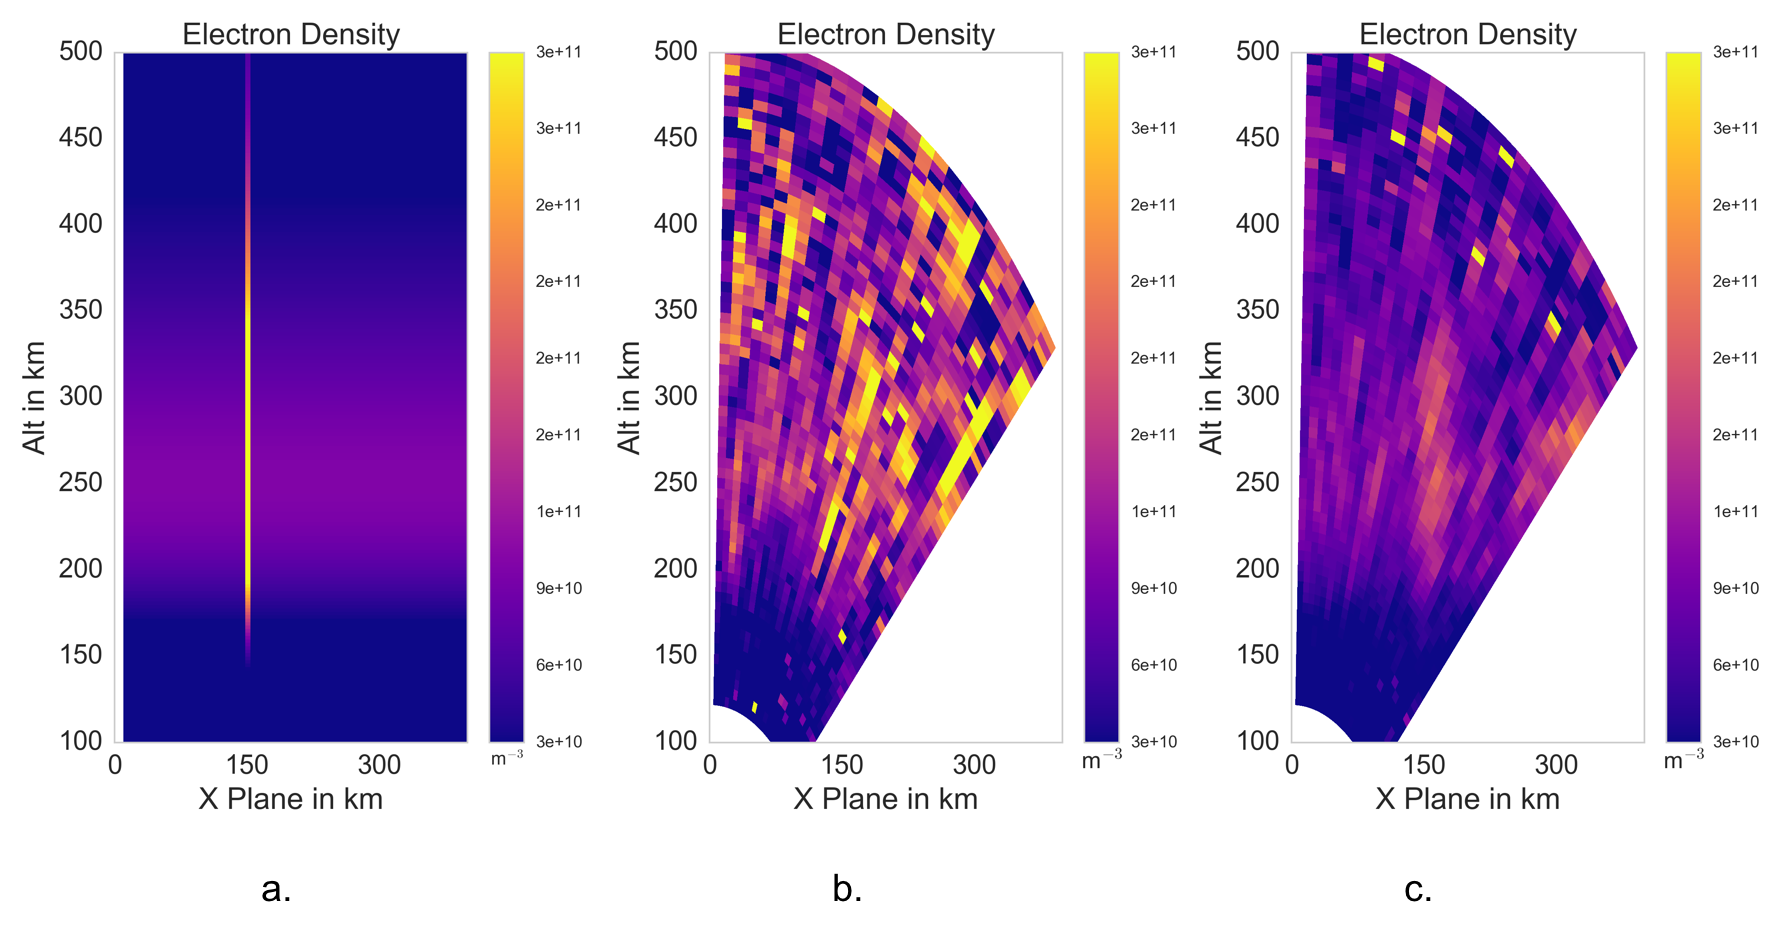
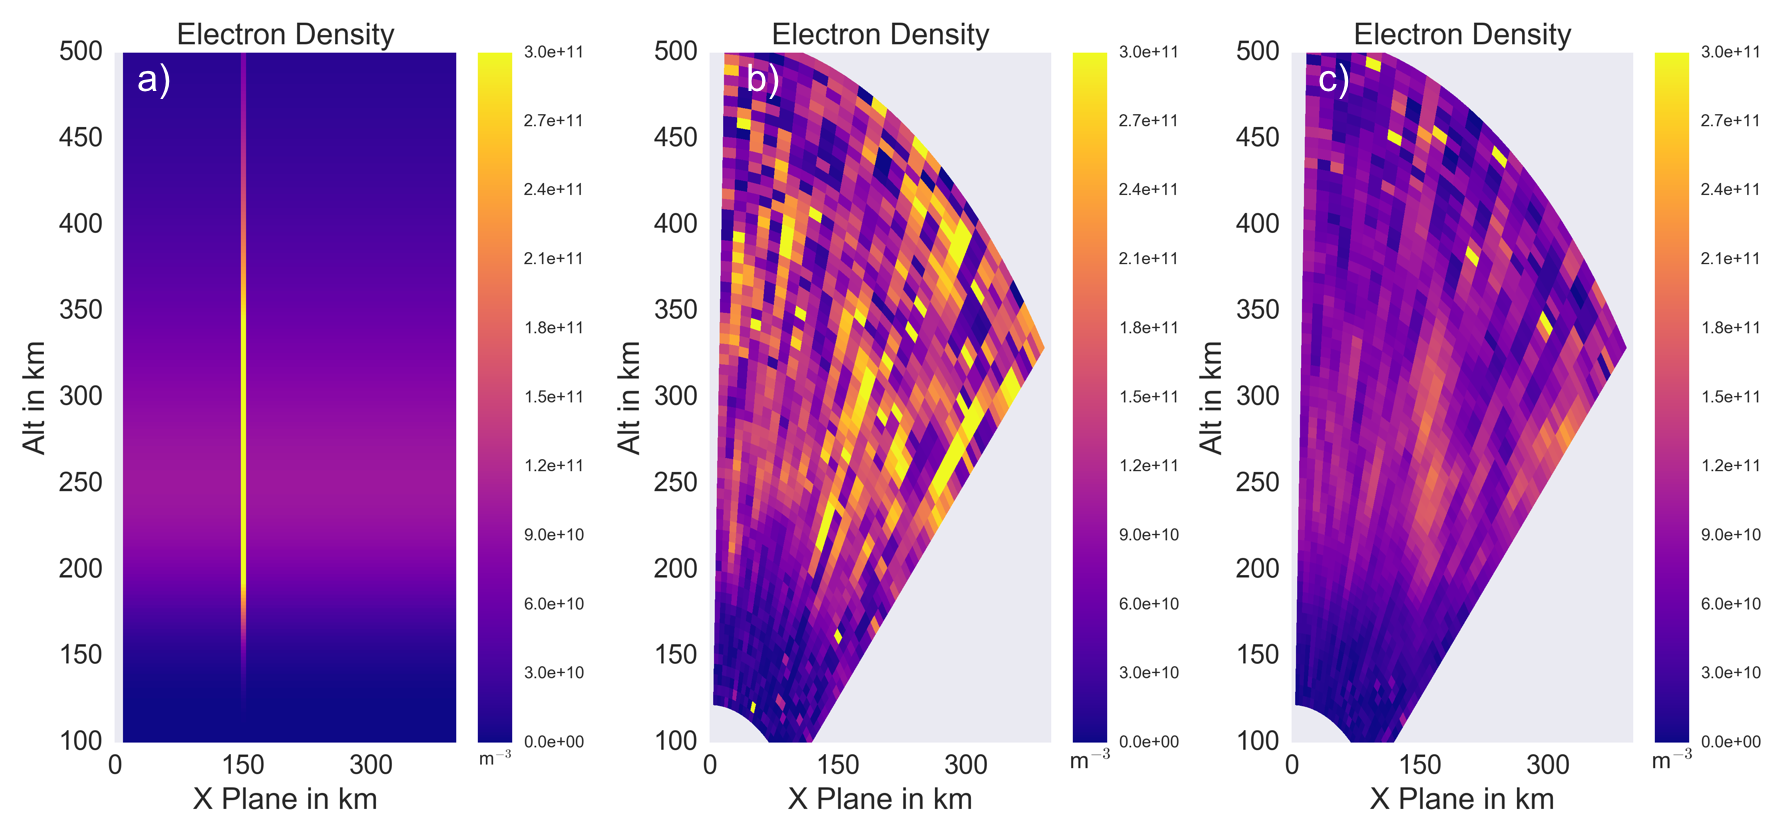
updates for images

diff --git a/ISRError.tex b/ISRError.tex
@@ -459,6 +459,7 @@ An important aspect of experiment design is determining the observability of pla
 \label{fig:background1}
 \end{figure}
 
+%For these simulations we want to show how ambiguities could arise when trying to image just simple electron density enhancements with the beam pattern shown in the right panel of Figure \ref{fig:background1},
 For these simulations we will explore how a thin enhancement will be resolved with beam pattern shown in the right panel of Figure \ref{fig:background1}, where each dot is a range gate in one of the 25 beams used. This thin enhancement is 2 km in width and enhances the density by 5 times the background at its altitude. The enhancement is at the resolution limit of the original Cartesian grid, a delta function in the x direction. The results of our simulations are seen in Figure \ref{fig:stationaryall} using a 15 second and 60 second integration time, 60 and 240 pulses per position respectively. The different integration times show that, although the enhancement is blurred, the variance of the measurement can impact the quality of the reconstruction because of the inherent noise quality of the signal.
 
 \begin{figure}[!t]
@@ -486,6 +487,13 @@ The blurring effect is not constant throughout the space due to the way the rada
 \end{figure}
 
 This change in the shape of the enhancement can give the impression that its morphology has developed as it was moving through the field of view of the radar. This could lead to an incorrect interpretation of the physical process taking place. Thus one must be careful when analyzing these sorts of reconstructions.
+
+\begin{figure}[!t]
+\centering
+\includegraphics[width=6in]{stationary}
+\caption{Results of stationary enhancement simulation. a. Input $N_e$; b. Output of simulator with 15 second integration;  Output of simulator with 60 second integration.}
+\label{fig:stationaryall}
+\end{figure}
 
 \subsection{Full Parameter Experiment}
 Lastly, plasma parameters derived from a multi-fluid model developed in \cite{semeter:plasmatransport2012} are used to drive the simulator. The specific example was originally used in \cite{Perry:2015jf} to compare to measurements from RISR-N. Images of the plasma parameters can be seen in Figures \ref{fig:plparamst0} and \ref{fig:plparamst60}. These enhancements in electron density, temperature and ion temperature are caused by an auroral arc created from a current system of .875 $\mu$A/m$^2$. It is moving through the field of view at 200 m/s.
